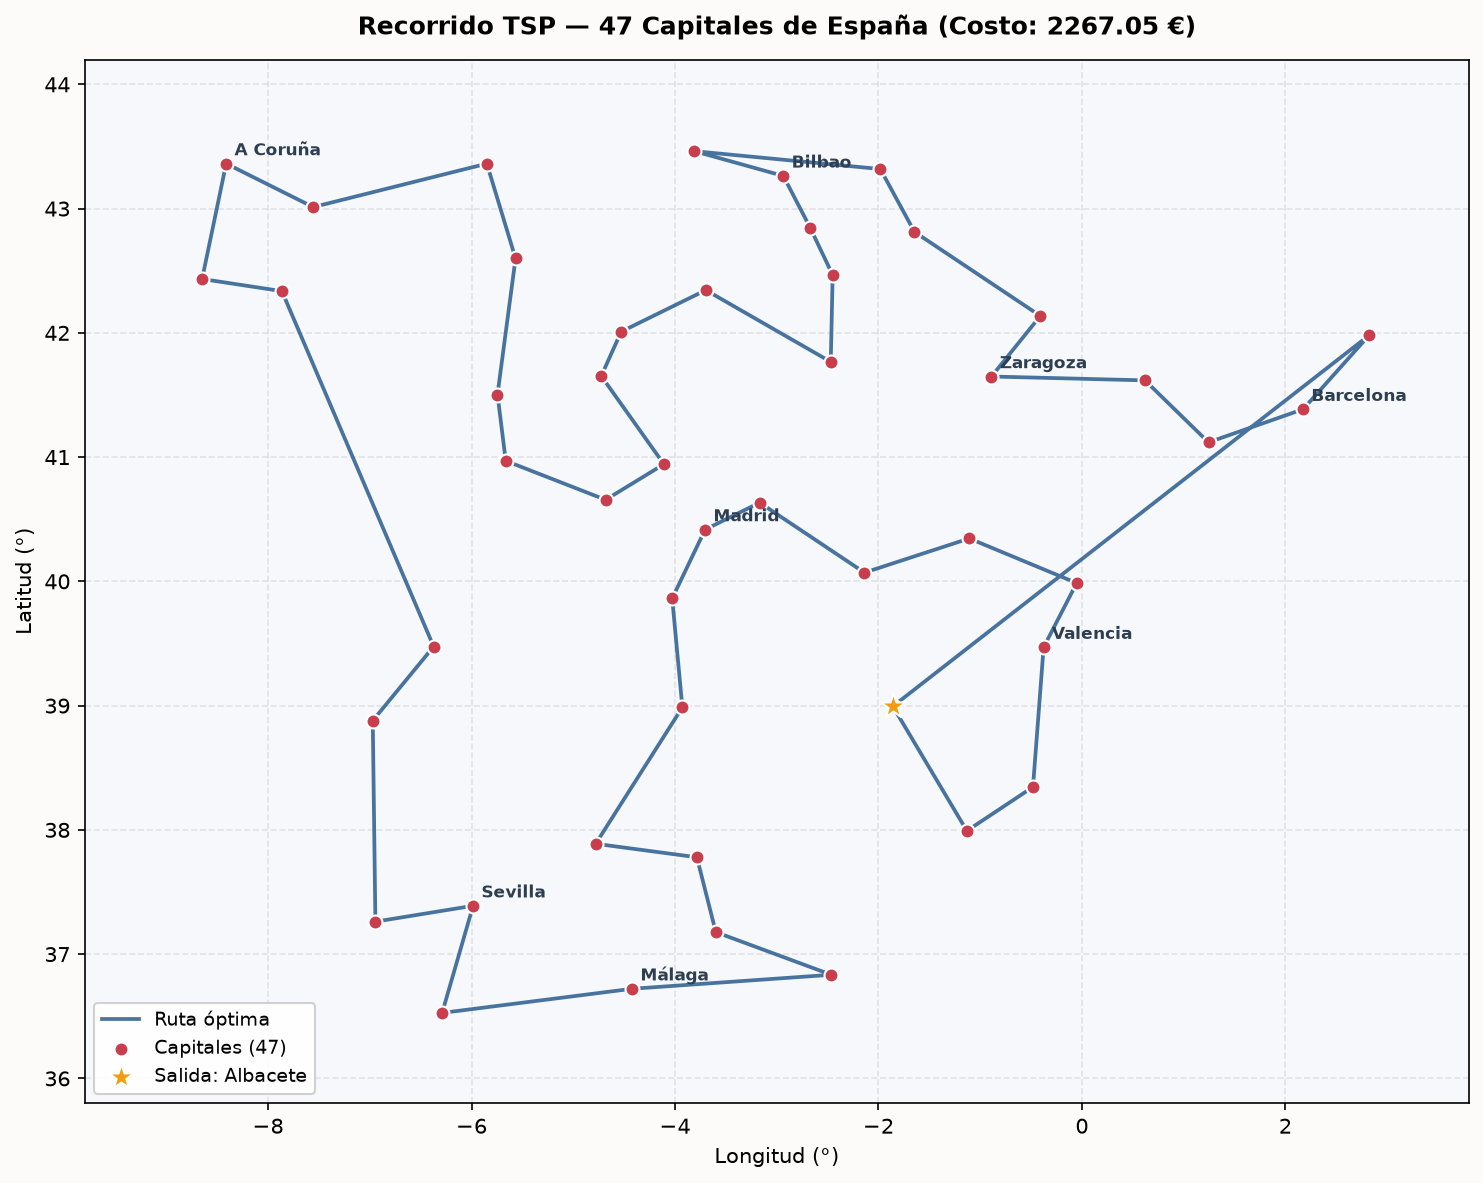
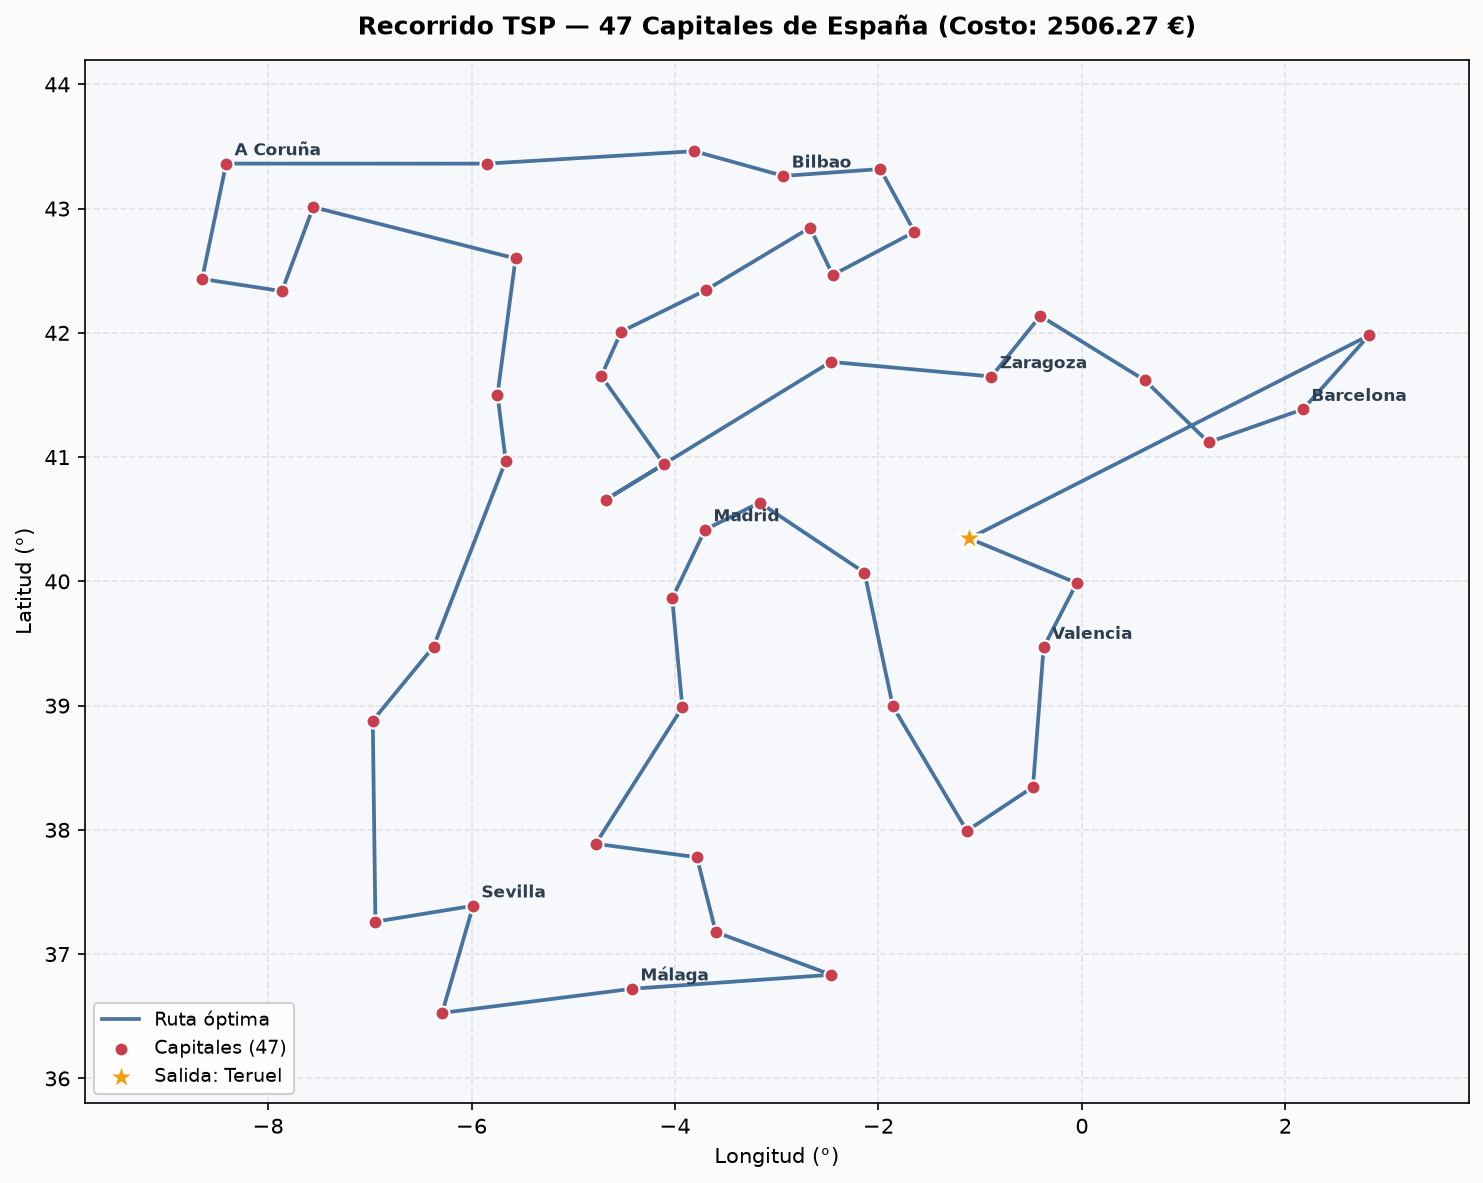
Actualizar resultados TSP y sincronizar tablas y visualizaciones del blog

diff --git a/docs/index.html b/docs/index.html
@@ -114,6 +114,7 @@ tr.destacado{background:#f9e9f2!important}
 <h3>3.1. Resultados almacenados para h = 25 €/h</h3>
 <p class="estado" id="estado-parte2">Leyendo docs/datos/resultados_blog.json</p><div class="tabla"><table><thead><tr><th scope="col">Método</th><th scope="col">Valor hora (€/h)</th><th scope="col">Costo total (€)</th><th scope="col">Distancia (km)</th><th scope="col">Tiempo (h)</th><th scope="col">Combustible (€)</th><th scope="col">Peajes (€)</th></tr></thead><tbody id="tabla-parte2"><tr><td colspan="7">Cargando resultados del proyecto…</td></tr></tbody></table></div>
 <p class="fuente">Tabla 2. Resultados TSP almacenados. Fuente: elaboración propia a partir de los resúmenes de ACO y GA del repositorio.</p>
+<p class="nota">La tabla y las figuras TSP se regeneraron con las matrices por carretera vigentes, las configuraciones de ACO y GA y la semilla 42. Cada método aporta una corrida; sus presupuestos de búsqueda son diferentes. La comparación describe estas ejecuciones y no demuestra superioridad general de un algoritmo.</p>
 <p id="analisis-parte2">La diferencia de costos se calculará a partir de los resultados disponibles.</p>
 <p class="nota"><strong>Origen de los datos:</strong> las distancias y tiempos de viaje provienen de matrices por carretera obtenidas con openrouteservice (perfil <code>driving-car</code>). La matriz de peajes sigue siendo provisional y debe interpretarse como una aproximación del costo por tramo.</p>
 <h3>3.2. Sensibilidad al valor de la hora</h3>

diff --git a/scripts/build_blog.py b/scripts/build_blog.py
@@ -1,5 +1,6 @@
 
 from pathlib import Path
+import argparse
 import json
 import shutil
 
@@ -47,7 +48,7 @@ def cargar_json(ruta):
 # SINCRONIZAR GRÁFICAS Y ANIMACIONES
 # ============================================================
 
-def sincronizar_imagenes():
+def sincronizar_imagenes(solo_tsp=False):
 
     origen = ROOT / "results"
     destino = DOCS / "imagenes"
@@ -76,6 +77,9 @@ def sincronizar_imagenes():
 
         # Mantener la estructura original de carpetas
         ruta_relativa = archivo.relative_to(origen)
+
+        if solo_tsp and ruta_relativa.parts[0] != "tsp":
+            continue
 
         ruta_destino = destino / ruta_relativa
 
@@ -231,10 +235,15 @@ def generar_sensibilidad_tsp():
 
 def main():
 
+    parser = argparse.ArgumentParser(description="Actualiza datos e imágenes del blog.")
+    parser.add_argument("--tsp-only", action="store_true",
+                        help="Actualiza el TSP conservando los resultados publicados de la Parte 1.")
+    args = parser.parse_args()
+
     print("=== GENERADOR DEL BLOG ===")
 
     # Obtener resultados de los experimentos
-    parte1 = generar_parte1()
+    parte1 = cargar_json(SALIDA)["parte1"] if args.tsp_only else generar_parte1()
 
     parte2 = generar_parte2()
 
@@ -274,7 +283,7 @@ def main():
     generar_sensibilidad_tsp()
 
     # Sincronizar todas las gráficas y animaciones
-    sincronizar_imagenes()
+    sincronizar_imagenes(solo_tsp=args.tsp_only)
 
     print(
         "\nBlog actualizado correctamente."

diff --git a/README.md b/README.md
@@ -392,3 +392,21 @@ python -m experiments.run_tsp --config configs/tsp_aco.yaml --study-hourly-rates
   - Mapa del recorrido estático: `results/tsp/{aco,ga}/spain_optimal_tour.png`.
   - Animación GIF de la evolución: `results/tsp/{aco,ga}/tour_evolution.gif`.
   - Resumen numérico y desglose de costos: `results/tsp/{aco,ga}/tsp_summary.json`.
+
+### Actualizar únicamente el TSP del blog
+
+Después de cambiar matrices o configuraciones, regenera las dos rutas y los
+estudios antes de sincronizar el blog:
+
+```powershell
+python -m experiments.run_tsp --config configs/tsp_aco.yaml
+python -m experiments.run_tsp --config configs/tsp_ga.yaml
+python -m experiments.run_tsp --config configs/tsp_aco.yaml --study-hourly-rates
+python -m experiments.run_tsp --config configs/tsp_ga.yaml --study-hourly-rates
+python -m scripts.build_blog --tsp-only
+```
+
+La opción `--tsp-only` conserva los resultados y las imágenes publicados de la
+Parte 1; actualiza las tablas, los mapas, los GIF y la sensibilidad del TSP.
+El generador completo sigue disponible sin esa opción. Para publicar los cambios,
+deben incorporarse a Git y enviarse al repositorio.
